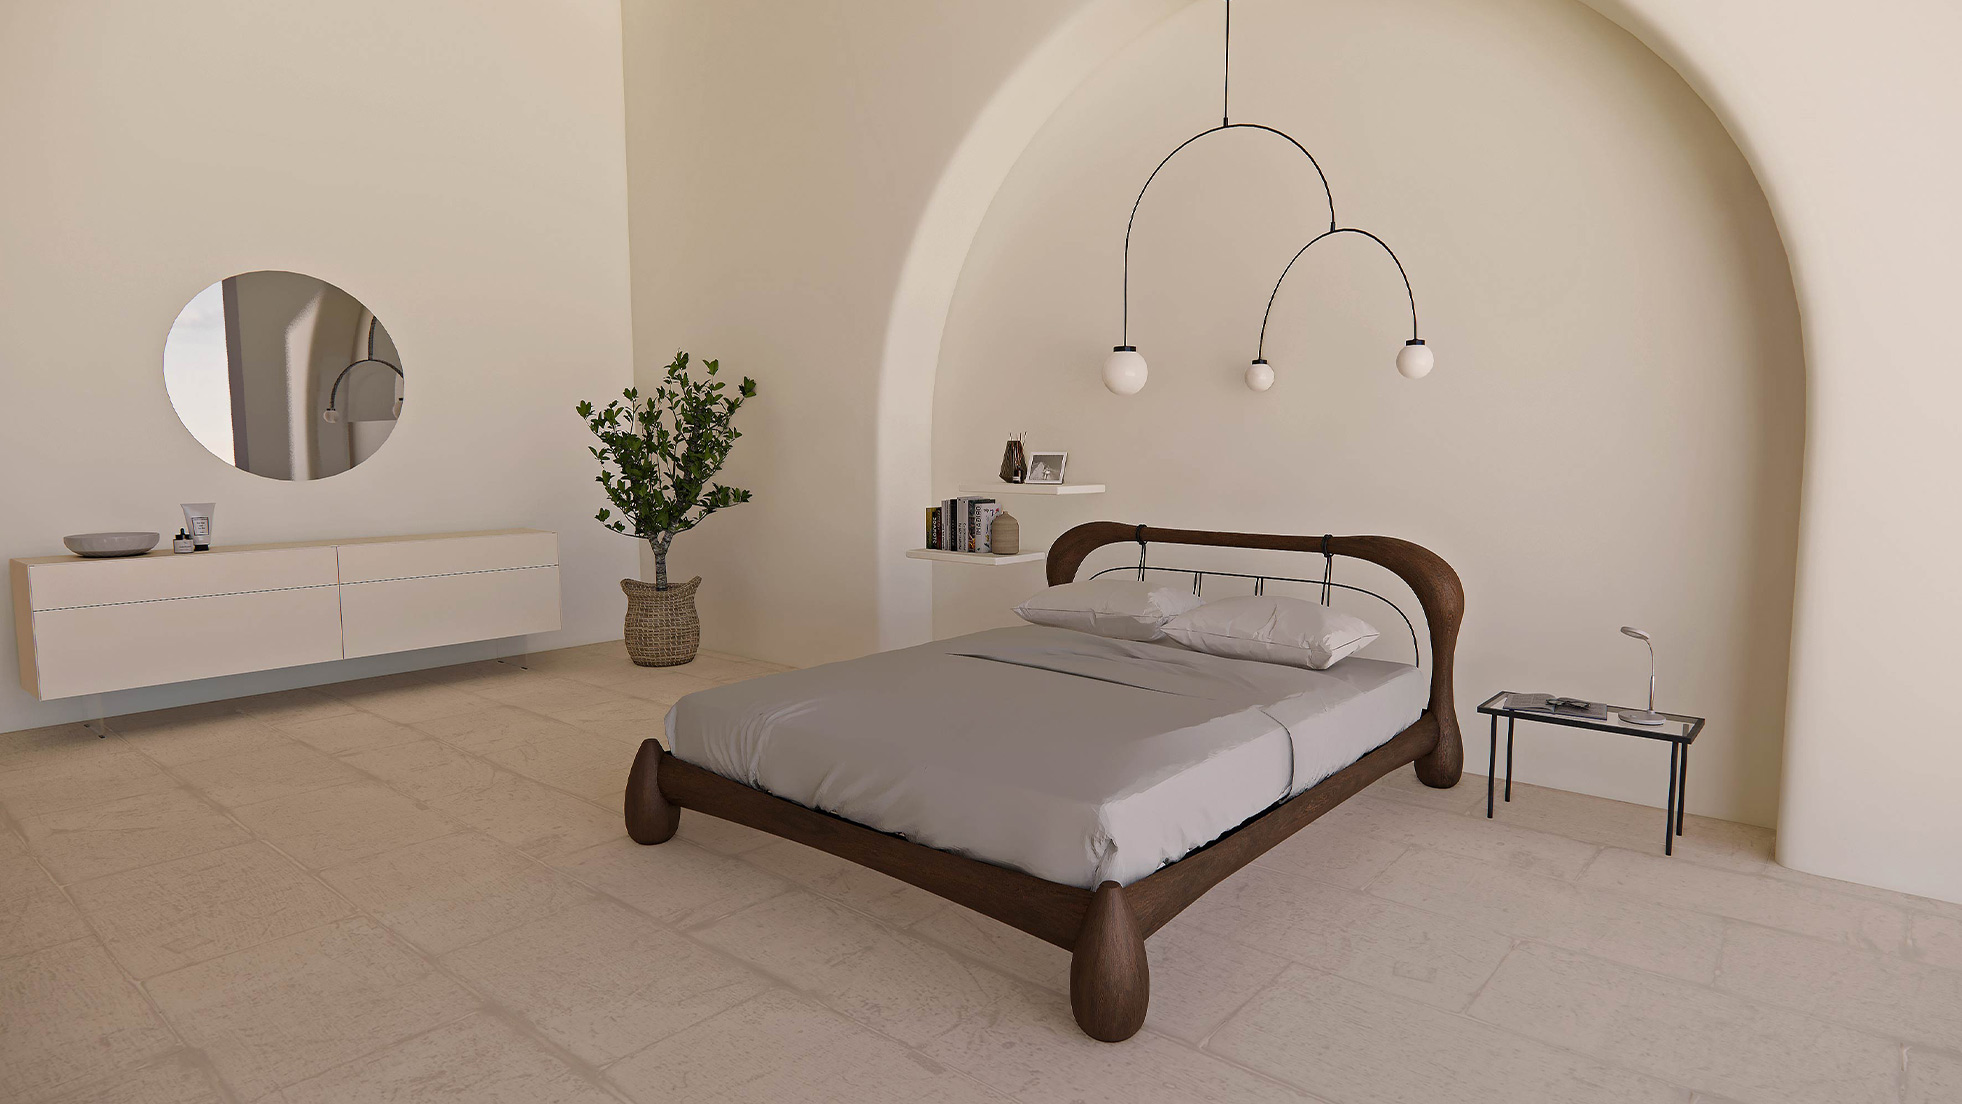
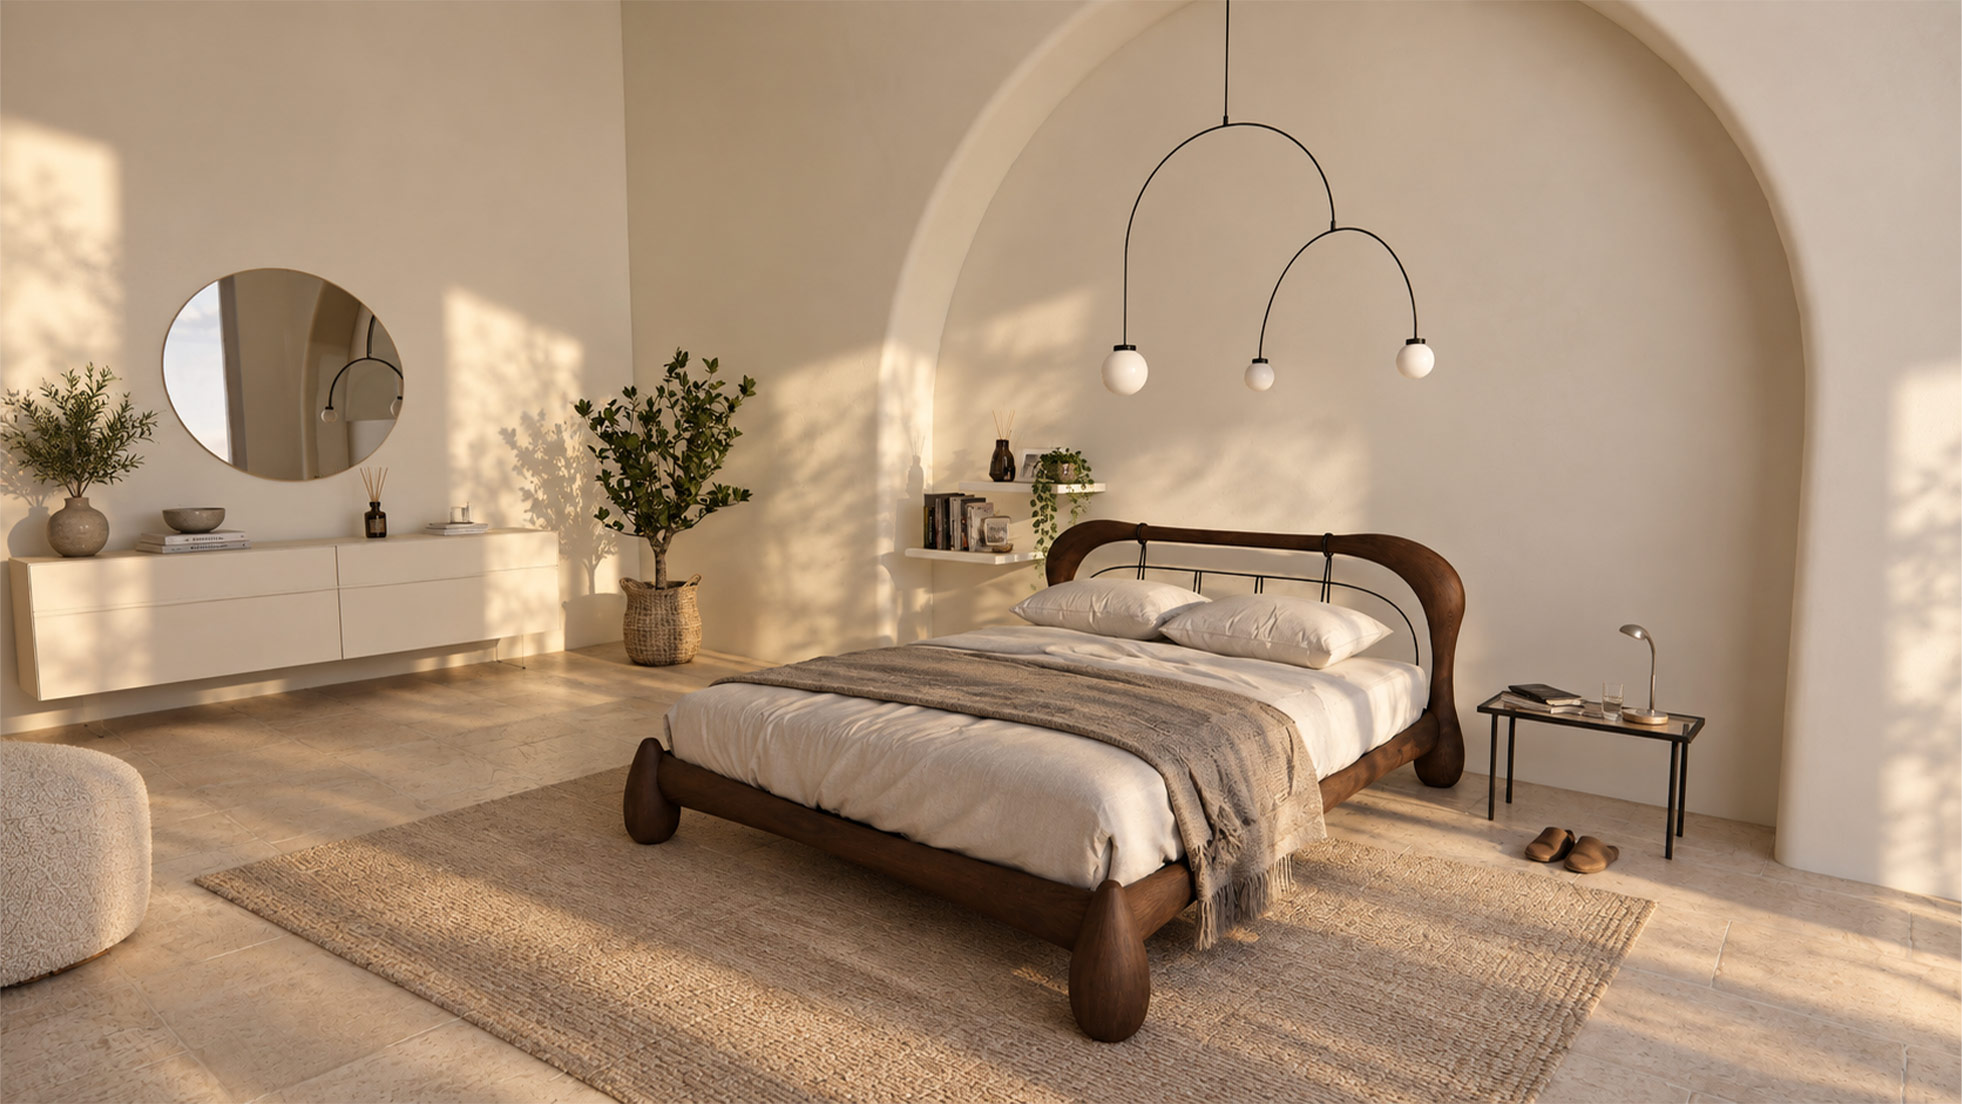
feat: faster contact wipe, projects fade, Radicale images, description width, SEO titles
- Contact wipe at the reference timings (1s/1.25s, no MOTION); faster text reveal on arrival
- Clicking Projects fades the current page out while preloading projects.html and its
  images; the card deal starts at once (no closed-deck hold, shorter image wait)
- Radicale: new warm renders for gallery images 4 and 5
- Project pages (desktop): description always ends 40px before the title's longest line
- New <title> and meta description on all 13 pages (Rosanna Daddario, what/where/when)

diff --git a/assets/js/main.js b/assets/js/main.js
@@ -644,14 +644,14 @@ document.addEventListener("DOMContentLoaded", () => {
 	/* Volo delle carte: partenza e arrivo morbidi (niente strappo iniziale) */
 	const DEAL_EASE = "cubic-bezier(0.45, 0, 0.15, 1)";
 	/* Tempi fissi della distribuzione (non scalano con MOTION) */
-	const FADE_IN = 300; // il mazzo compare fermo al centro
-	const HOLD = 360; // il mazzo resta chiuso un istante prima della prima carta
+	const FADE_IN = 300; // le carte compaiono mentre lasciano il mazzo
+	const HOLD = 0; // la prima carta parte subito, senza pausa a mazzo chiuso
 	const DEAL = 1500; // volo di ogni carta
 	const DEAL_END = 2500; // l'ultima carta arriva al suo posto
 	/* Ogni carta parte dopo la precedente, così l'ultima atterra a DEAL_END */
 	const STAGGER = cards.length > 1 ? (DEAL_END - HOLD - DEAL) / (cards.length - 1) : 0;
 	const TEXT_IN = 1080 * MOTION; // comparsa di anni e titoli
-	const MAX_WAIT = 600; // attesa massima delle immagini prima di partire
+	const MAX_WAIT = 250; // attesa massima delle immagini (precaricate durante la sfumatura)
 
 	/* Tutte le immagini vanno caricate e decodificate prima del volo,
 	   altrimenti la decodifica a metà animazione crea scatti */
@@ -738,11 +738,12 @@ document.addEventListener("DOMContentLoaded", () => {
 	}
 
 	const EASE = "cubic-bezier(0.22, 1, 0.36, 1)";
-	const TEXT_IN = 1080 * MOTION;
-	const STAGGER = 48 * MOTION;
-	/* Arrivando dal velo di "Contact me" la pagina è già coperta d'azzurro da
-	   ~2s: le scritte partono subito, senza la pausa del page-in */
-	const START = root.classList.contains("is-contact-arrived") ? 0 : 216 * MOTION; // come il page-in della home
+	/* Arrivando dal velo di "Contact me" la pagina è già coperta d'azzurro:
+	   le scritte partono subito e più rapide, senza la pausa del page-in */
+	const fromWipe = root.classList.contains("is-contact-arrived");
+	const TEXT_IN = fromWipe ? 700 : 1080 * MOTION;
+	const STAGGER = fromWipe ? 40 : 48 * MOTION;
+	const START = fromWipe ? 0 : 216 * MOTION; // come il page-in della home
 
 	items.forEach((item, i) => {
 		item.animate(
@@ -1046,12 +1047,13 @@ document.addEventListener("DOMContentLoaded", () => {
 
 /* Contact me (come iamrossmason.com):
    un velo azzurro scende dall'alto con il bordo in diagonale (angolo destro in
-   1s, sinistro in 1.25s, × MOTION) e copre la pagina; poi si apre la pagina
+   1s, sinistro in 1.25s, gli stessi tempi del riferimento: qui niente MOTION,
+   rallentato sembrava lento) e copre la pagina; poi si apre la pagina
    contatti, già azzurra. Uscendo dai contatti il velo risale al contrario
    (destro in 1s, sinistro in 1.25s) e scopre il bianco della pagina successiva. */
 const CONTACT_WIPE_KEY = "contactWipe";
-const CONTACT_WIPE_FAST = 1000 * MOTION;
-const CONTACT_WIPE_SLOW = 1250 * MOTION;
+const CONTACT_WIPE_FAST = 1000;
+const CONTACT_WIPE_SLOW = 1250;
 
 /* Curva "snappy" del sito di riferimento (CustomEase GSAP): tre segmenti cubici
    da (0,0) a (1,1). Campionata una volta in una tabella x → y. */
@@ -1200,5 +1202,100 @@ document.addEventListener("DOMContentLoaded", () => {
 		document.body.style.removeProperty("--wipe-left");
 		document.body.style.pointerEvents = "";
 		leaving = null;
+	});
+});
+
+/* Verso Projects: la pagina corrente sfuma via e intanto si precaricano
+   projects.html e le sue immagini, così all'arrivo le carte partono subito.
+   Dai contatti resta il velo azzurro che risale (vedi sopra). */
+const PROJECTS_FADE = 400;
+
+document.addEventListener("DOMContentLoaded", () => {
+	const prefersReduced = window.matchMedia("(prefers-reduced-motion: reduce)");
+	if (document.body.classList.contains("page-contact")) return;
+	if (/(^|\/)projects\.html$/.test(window.location.pathname)) return; // già su Projects
+
+	let leaving = null;
+
+	const preloadProjects = (href) => {
+		fetch(href)
+			.then((response) => response.text())
+			.then((html) => {
+				const doc = new DOMParser().parseFromString(html, "text/html");
+				doc.querySelectorAll(".project-tile__media img").forEach((img) => {
+					const src = img.getAttribute("src");
+					if (src) new Image().src = new URL(src, href).href;
+				});
+			})
+			.catch(() => {});
+	};
+
+	document.addEventListener("click", (event) => {
+		const link = event.target.closest("a[href]");
+		if (!link || event.defaultPrevented || leaving || !isPlainClick(event)) return;
+		if (link.target && link.target !== "_self") return;
+		if (link.origin !== window.location.origin || !/(^|\/)projects\.html$/.test(link.pathname)) return;
+		if (prefersReduced.matches || typeof Element.prototype.animate !== "function") return;
+
+		event.preventDefault();
+		preloadProjects(link.href);
+		document.body.style.pointerEvents = "none";
+		const fade = document.body.animate([{ opacity: 1 }, { opacity: 0 }], {
+			duration: PROJECTS_FADE,
+			easing: "cubic-bezier(0.25, 0.46, 0.45, 0.94)",
+			fill: "forwards",
+		});
+		leaving = { fade };
+		window.setTimeout(() => {
+			window.location.href = link.href;
+		}, PROJECTS_FADE);
+	});
+
+	/* Tornando indietro (bfcache) la pagina deve ricomparire intatta */
+	window.addEventListener("pageshow", (event) => {
+		if (!event.persisted || !leaving) return;
+		leaving.fade.cancel();
+		document.body.style.pointerEvents = "";
+		leaving = null;
+	});
+});
+
+/* Pagine progetto, da desktop: la descrizione finisce sempre un po' prima del
+   titolo. La larghezza fissa (--project-intro-body-max) va bene per i titoli
+   lunghi, ma con quelli corti (o su schermi stretti, dove il titolo scala con
+   la viewport) il testo arrivava a filo o oltre: qui si stringe quanto basta
+   perché il bordo destro resti BODY_INSET px prima della riga più lunga del
+   titolo. Non si allarga mai oltre il valore del CSS. */
+document.addEventListener("DOMContentLoaded", () => {
+	const intro = document.querySelector(".project-intro");
+	const title = intro?.querySelector(".project-intro__title");
+	const body = intro?.querySelector(".project-intro__body");
+	if (!intro || !title || !body) return;
+
+	const BODY_INSET = 40;
+	const desktop = window.matchMedia("(min-width: 1024px)");
+
+	const inkRight = (el) => {
+		const range = document.createRange();
+		range.selectNodeContents(el);
+		return Math.max(...Array.from(range.getClientRects(), (rect) => rect.right));
+	};
+
+	const fit = () => {
+		intro.style.removeProperty("--project-intro-body-max");
+		if (!desktop.matches) return;
+		const cssMax = body.getBoundingClientRect().width;
+		const available = inkRight(title) - BODY_INSET - body.getBoundingClientRect().left;
+		if (available < cssMax) {
+			intro.style.setProperty("--project-intro-body-max", `${Math.max(240, Math.floor(available))}px`);
+		}
+	};
+
+	fit();
+	document.fonts?.ready.then(fit);
+	let raf = 0;
+	window.addEventListener("resize", () => {
+		window.cancelAnimationFrame(raf);
+		raf = window.requestAnimationFrame(fit);
 	});
 });

diff --git a/radicale.html b/radicale.html
@@ -4,7 +4,8 @@
     <!-- Meta base -->
     <meta charset="UTF-8" />
     <meta name="viewport" content="width=device-width, initial-scale=1" />
-    <title>Radicale — Daddario Rosanna</title>
+    <title>Radicale: Solid Oak Bed — Rosanna Daddario</title>
+    <meta name="description" content="Solid oak bed inspired by the Apulian landscape and the olive tree, between craftsmanship and contemporary design. Designed for Porada Awards 2024." />
     <link rel="icon" href="assets/favicon.ico?v=6" sizes="any" />
     <link rel="icon" type="image/png" href="assets/favicon.png?v=6" />
     <link rel="apple-touch-icon" href="assets/apple-touch-icon.png?v=6" />
@@ -68,7 +69,7 @@
     </script>
     <!-- CSS e JS condivisi -->
     <link rel="stylesheet" href="assets/css/main.css?v=20261008d" />
-    <script defer src="assets/js/main.js?v=20261008e"></script>
+    <script defer src="assets/js/main.js?v=20261008g"></script>
   </head>
 
   <body class="min-h-[100svh] bg-white font-serif text-ink antialiased">
@@ -268,7 +269,7 @@
             <!-- Image 4 -->
             <figure class="m-0">
               <img
-                src="assets/prjAssets/radicale4.jpg"
+                src="assets/prjAssets/radicale4.jpg?v=2"
                 alt="Render del progetto Radicale con letto inserito in un interno luminoso"
                 class="block h-auto w-full bg-[#f3f3f3]"
                 loading="lazy"
@@ -278,7 +279,7 @@
             <!-- Image 5 -->
             <figure class="m-0">
               <img
-                src="assets/prjAssets/radicale5.jpg"
+                src="assets/prjAssets/radicale5.jpg?v=2"
                 alt="Seconda vista ambientata del letto Radicale con dettagli materici in evidenza"
                 class="block h-auto w-full bg-[#f3f3f3]"
                 loading="lazy"

diff --git a/beat.html b/beat.html
@@ -4,7 +4,8 @@
     <!-- Meta base -->
     <meta charset="UTF-8" />
     <meta name="viewport" content="width=device-width, initial-scale=1" />
-    <title>B.EAT CLUB BARILLA — Daddario Rosanna</title>
+    <title>B.eat Club Barilla: Narrative Store — Rosanna Daddario</title>
+    <meta name="description" content="Narrative retail space for Barilla inspired by club culture, where sound shapes the taste of al Bronzo pasta. Retail workshop, Politecnico di Milano (2025)." />
     <link rel="icon" href="assets/favicon.ico?v=6" sizes="any" />
     <link rel="icon" type="image/png" href="assets/favicon.png?v=6" />
     <link rel="apple-touch-icon" href="assets/apple-touch-icon.png?v=6" />
@@ -68,7 +69,7 @@
     </script>
     <!-- CSS e JS condivisi -->
     <link rel="stylesheet" href="assets/css/main.css?v=20261008d" />
-    <script defer src="assets/js/main.js?v=20261008e"></script>
+    <script defer src="assets/js/main.js?v=20261008g"></script>
   </head>
 
   <body class="min-h-[100svh] bg-white font-serif text-ink antialiased">

diff --git a/flow.html b/flow.html
@@ -4,7 +4,8 @@
     <!-- Meta base -->
     <meta charset="UTF-8" />
     <meta name="viewport" content="width=device-width, initial-scale=1" />
-    <title>Flow: space on earth — Daddario Rosanna</title>
+    <title>Flow: AI and Accessible Kitchen — Rosanna Daddario</title>
+    <meta name="description" content="Kitchen concept combining artificial intelligence, accessibility and adaptive design for contemporary living. Bachelor’s thesis, Politecnico di Bari (2023)." />
     <link rel="icon" href="assets/favicon.ico?v=6" sizes="any" />
     <link rel="icon" type="image/png" href="assets/favicon.png?v=6" />
     <link rel="apple-touch-icon" href="assets/apple-touch-icon.png?v=6" />
@@ -68,7 +69,7 @@
     </script>
     <!-- CSS e JS condivisi -->
     <link rel="stylesheet" href="assets/css/main.css?v=20261008d" />
-    <script defer src="assets/js/main.js?v=20261008e"></script>
+    <script defer src="assets/js/main.js?v=20261008g"></script>
   </head>
 
   <body class="min-h-[100svh] bg-white font-serif text-ink antialiased">

diff --git a/amare.html b/amare.html
@@ -4,7 +4,8 @@
     <!-- Meta base -->
     <meta charset="UTF-8" />
     <meta name="viewport" content="width=device-width, initial-scale=1" />
-    <title>A’MARE — Daddario Rosanna</title>
+    <title>A’mare: Exhibition on Light and Water — Rosanna Daddario</title>
+    <meta name="description" content="Exhibition on Jacopo Foggini’s A’mare collection for Edra: polycarbonate furniture that plays with light like water. Politecnico di Bari (2022)." />
     <link rel="icon" href="assets/favicon.ico?v=6" sizes="any" />
     <link rel="icon" type="image/png" href="assets/favicon.png?v=6" />
     <link rel="apple-touch-icon" href="assets/apple-touch-icon.png?v=6" />
@@ -67,7 +68,7 @@
     </script>
     <!-- CSS e JS condivisi -->
     <link rel="stylesheet" href="assets/css/main.css?v=20261008d" />
-    <script defer src="assets/js/main.js?v=20261008e"></script>
+    <script defer src="assets/js/main.js?v=20261008g"></script>
   </head>
 
   <body class="min-h-[100svh] bg-white font-serif text-ink antialiased">

diff --git a/subemersa.html b/subemersa.html
@@ -4,7 +4,8 @@
     <!-- Meta base -->
     <meta charset="UTF-8" />
     <meta name="viewport" content="width=device-width, initial-scale=1" />
-    <title>Subemersa — Daddario Rosanna</title>
+    <title>Subemersa: Terme Erculee Exhibition — Rosanna Daddario</title>
+    <meta name="description" content="Immersive urban exhibition that brings Milan’s ancient Terme Erculee back to light across three levels of the city. Politecnico di Milano (2025)." />
     <link rel="icon" href="assets/favicon.ico?v=6" sizes="any" />
     <link rel="icon" type="image/png" href="assets/favicon.png?v=6" />
     <link rel="apple-touch-icon" href="assets/apple-touch-icon.png?v=6" />
@@ -67,7 +68,7 @@
     </script>
     <!-- CSS e JS condivisi -->
     <link rel="stylesheet" href="assets/css/main.css?v=20261008d" />
-    <script defer src="assets/js/main.js?v=20261008e"></script>
+    <script defer src="assets/js/main.js?v=20261008g"></script>
   </head>
 
   <body class="min-h-[100svh] bg-white font-serif text-ink antialiased">

diff --git a/gineceo.html b/gineceo.html
@@ -4,7 +4,8 @@
     <!-- Meta base -->
     <meta charset="UTF-8" />
     <meta name="viewport" content="width=device-width, initial-scale=1" />
-    <title>Gineceo 2.0 — Daddario Rosanna</title>
+    <title>Gineceo 2.0: Experiential Installation — Rosanna Daddario</title>
+    <meta name="description" content="Experiential installation on female sexuality and self-awareness, a journey shaped on the anatomy of the uterus. Politecnico di Bari (2022)." />
     <link rel="icon" href="assets/favicon.ico?v=6" sizes="any" />
     <link rel="icon" type="image/png" href="assets/favicon.png?v=6" />
     <link rel="apple-touch-icon" href="assets/apple-touch-icon.png?v=6" />
@@ -68,7 +69,7 @@
     </script>
     <!-- CSS e JS condivisi -->
     <link rel="stylesheet" href="assets/css/main.css?v=20261008d" />
-    <script defer src="assets/js/main.js?v=20261008e"></script>
+    <script defer src="assets/js/main.js?v=20261008g"></script>
   </head>
 
   <body class="min-h-[100svh] bg-white font-serif text-ink antialiased">

diff --git a/projects.html b/projects.html
@@ -4,7 +4,8 @@
     <!-- Meta base -->
     <meta charset="UTF-8" />
     <meta name="viewport" content="width=device-width, initial-scale=1" />
-    <title>Projects — Daddario Rosanna</title>
+    <title>Projects — Rosanna Daddario, Exhibition &amp; Spatial Designer</title>
+    <meta name="description" content="Selected projects 2022–2026 by Rosanna Daddario: exhibitions, narrative retail spaces, interiors and furniture, from Politecnico di Milano and Bari." />
     <link rel="icon" href="assets/favicon.ico?v=6" sizes="any" />
     <link rel="icon" type="image/png" href="assets/favicon.png?v=6" />
     <link rel="apple-touch-icon" href="assets/apple-touch-icon.png?v=6" />
@@ -50,7 +51,7 @@
 
     <!-- CSS e JS condivisi -->
     <link rel="stylesheet" href="assets/css/main.css?v=20261008d" />
-    <script defer src="assets/js/main.js?v=20261008e"></script>
+    <script defer src="assets/js/main.js?v=20261008g"></script>
   </head>
 
   <body class="min-h-[100svh] bg-white font-serif text-ink antialiased">

diff --git a/about.html b/about.html
@@ -4,7 +4,8 @@
     <!-- Meta base -->
     <meta charset="UTF-8" />
     <meta name="viewport" content="width=device-width, initial-scale=1" />
-    <title>About — Daddario Rosanna</title>
+    <title>About — Rosanna Daddario, Exhibition &amp; Spatial Designer</title>
+    <meta name="description" content="Rosanna Daddario is an exhibition and spatial designer from Bari, based in Milan, with a Master’s degree in Exhibition Design from Politecnico di Milano." />
     <link rel="icon" href="assets/favicon.ico?v=6" sizes="any" />
     <link rel="icon" type="image/png" href="assets/favicon.png?v=6" />
     <link rel="apple-touch-icon" href="assets/apple-touch-icon.png?v=6" />
@@ -49,7 +50,7 @@
 
     <!-- CSS e JS condivisi -->
     <link rel="stylesheet" href="assets/css/main.css?v=20261008d" />
-    <script defer src="assets/js/main.js?v=20261008e"></script>
+    <script defer src="assets/js/main.js?v=20261008g"></script>
   </head>
 
   <body class="min-h-[100svh] bg-white font-serif text-ink antialiased">

diff --git a/slowfood.html b/slowfood.html
@@ -4,7 +4,8 @@
     <!-- Meta base -->
     <meta charset="UTF-8" />
     <meta name="viewport" content="width=device-width, initial-scale=1" />
-    <title>Slow Food — Daddario Rosanna</title>
+    <title>Slow Food: Mobile Market System — Rosanna Daddario</title>
+    <meta name="description" content="Master’s thesis, Politecnico di Milano (2026): an itinerant market system that brings Slow Food values into everyday urban life and food choices." />
     <link rel="icon" href="assets/favicon.ico?v=6" sizes="any" />
     <link rel="icon" type="image/png" href="assets/favicon.png?v=6" />
     <link rel="apple-touch-icon" href="assets/apple-touch-icon.png?v=6" />
@@ -67,7 +68,7 @@
     </script>
     <!-- CSS e JS condivisi -->
     <link rel="stylesheet" href="assets/css/main.css?v=20261008d" />
-    <script defer src="assets/js/main.js?v=20261008e"></script>
+    <script defer src="assets/js/main.js?v=20261008g"></script>
   </head>
 
   <body class="min-h-[100svh] bg-white font-serif text-ink antialiased">

diff --git a/coboxing.html b/coboxing.html
@@ -4,7 +4,8 @@
     <!-- Meta base -->
     <meta charset="UTF-8" />
     <meta name="viewport" content="width=device-width, initial-scale=1" />
-    <title>CoBoxing — Daddario Rosanna</title>
+    <title>CoBoxing: Hybrid Retail Space — Rosanna Daddario</title>
+    <meta name="description" content="Hybrid retail and social space at Bergamo Porta Sud station with Too Good To Go, AirUp and Millefiori. Retail workshop, Politecnico di Milano (2025)." />
     <link rel="icon" href="assets/favicon.ico?v=6" sizes="any" />
     <link rel="icon" type="image/png" href="assets/favicon.png?v=6" />
     <link rel="apple-touch-icon" href="assets/apple-touch-icon.png?v=6" />
@@ -68,7 +69,7 @@
     </script>
     <!-- CSS e JS condivisi -->
     <link rel="stylesheet" href="assets/css/main.css?v=20261008d" />
-    <script defer src="assets/js/main.js?v=20261008e"></script>
+    <script defer src="assets/js/main.js?v=20261008g"></script>
   </head>
 
   <body class="min-h-[100svh] bg-white font-serif text-ink antialiased">

diff --git a/transhuman.html b/transhuman.html
@@ -4,7 +4,8 @@
     <!-- Meta base -->
     <meta charset="UTF-8" />
     <meta name="viewport" content="width=device-width, initial-scale=1" />
-    <title>Transhuman — Daddario Rosanna</title>
+    <title>Transhuman: Kevin Warwick Exhibition — Rosanna Daddario</title>
+    <meta name="description" content="Exhibition on Kevin Warwick’s transhumanist vision: a speculative factory of the future human, room by room. Politecnico di Milano (2025)." />
     <link rel="icon" href="assets/favicon.ico?v=6" sizes="any" />
     <link rel="icon" type="image/png" href="assets/favicon.png?v=6" />
     <link rel="apple-touch-icon" href="assets/apple-touch-icon.png?v=6" />
@@ -68,7 +69,7 @@
     </script>
     <!-- CSS e JS condivisi -->
     <link rel="stylesheet" href="assets/css/main.css?v=20261008d" />
-    <script defer src="assets/js/main.js?v=20261008e"></script>
+    <script defer src="assets/js/main.js?v=20261008g"></script>
   </head>
 
   <body class="min-h-[100svh] bg-white font-serif text-ink antialiased">
